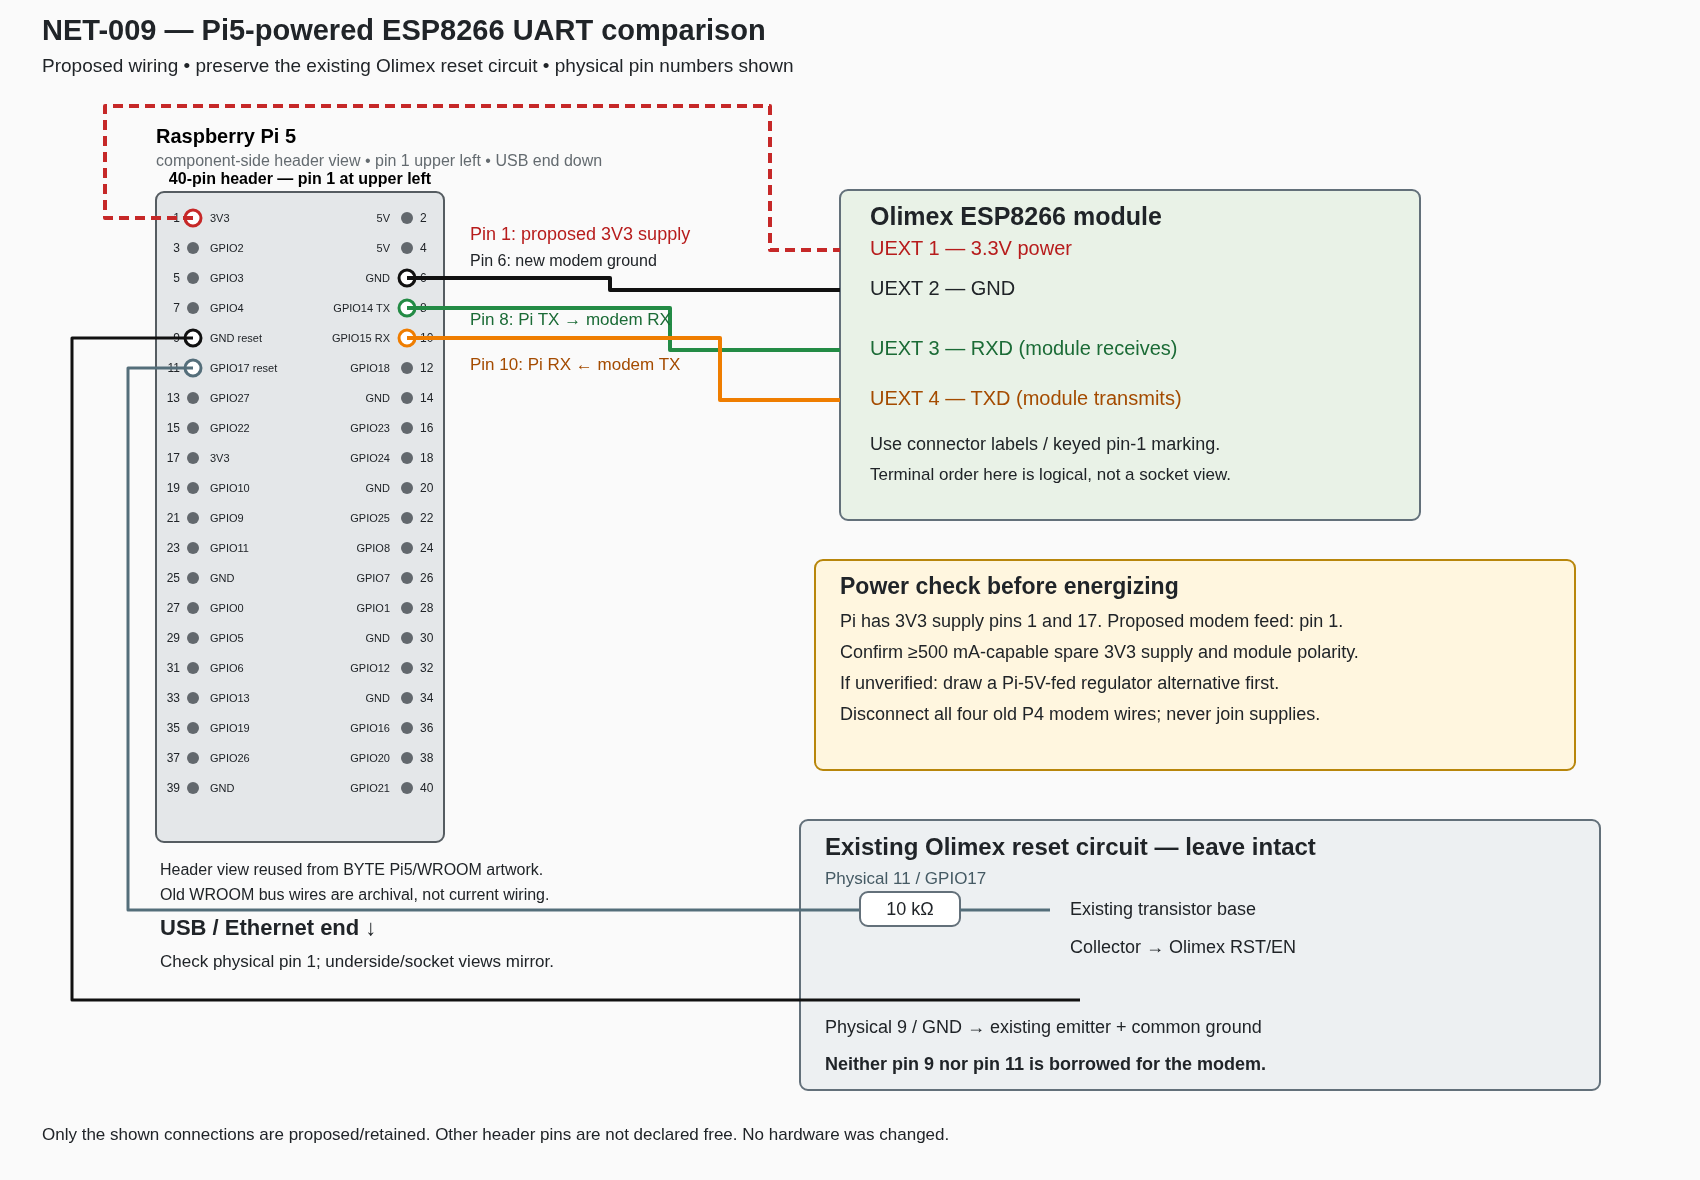
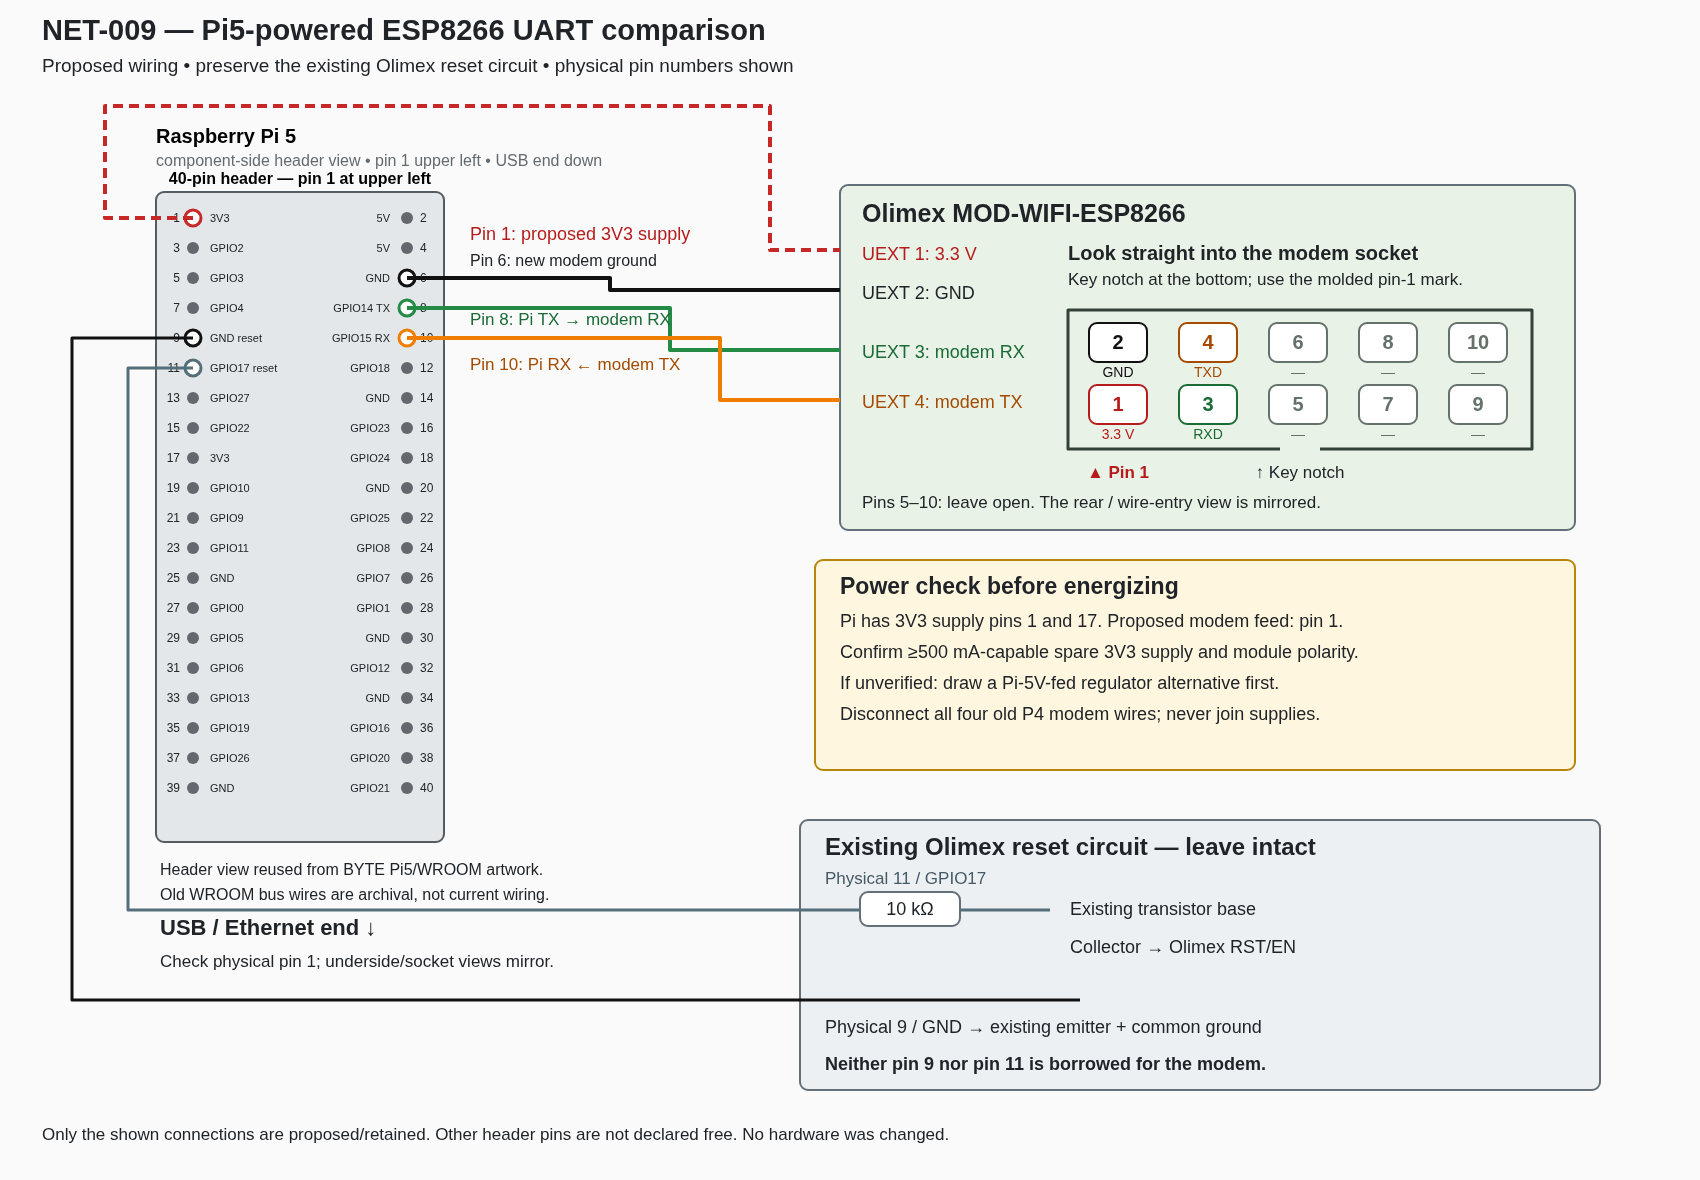
Show modem UEXT socket on Pi5 wiring sheet

Changed region(s): [[0.4988, 0.1525, 0.9041, 0.4576], [0.7482, 0.3051, 0.7794, 0.3661]]

diff --git a/docs/tasks/NET-009/draw_wiring.py b/docs/tasks/NET-009/draw_wiring.py
@@ -36,8 +36,27 @@ for pin,label in enumerate(labels,1):
  text(210 if odd else 390,y+4,label,11,text_anchor='start' if odd else 'end')
  if pin in [1,6,8,10,9,11]:
   colour={1:'#c62828',6:'#111',8:'#238b45',10:'#ef7d00',9:'#111',11:'#546e7a'}[pin];r.append(node('circle',cx=193 if odd else 407,cy=y,r=8,fill='white',stroke=colour,stroke_width=3))
-rect(840,190,580,330,fill='#e9f2e7');text(870,225,'Olimex ESP8266 module',25,font_weight='bold')
-text(870,255,'UEXT 1 — 3.3V power',20,'#b71c1c');text(870,295,'UEXT 2 — GND',20);text(870,355,'UEXT 3 — RXD (module receives)',20,'#1b6b36');text(870,405,'UEXT 4 — TXD (module transmits)',20,'#a44b00');text(870,450,'Use connector labels / keyed pin-1 marking.',18);text(870,480,'Terminal order here is logical, not a socket view.',17)
+rect(840,185,735,345,fill='#e9f2e7')
+text(862,222,'Olimex MOD-WIFI-ESP8266',25,font_weight='bold')
+text(862,260,'UEXT 1: 3.3 V',18,'#b71c1c')
+text(862,299,'UEXT 2: GND',18)
+text(862,358,'UEXT 3: modem RX',18,'#1b6b36')
+text(862,408,'UEXT 4: modem TX',18,'#a44b00')
+text(1068,260,'Look straight into the modem socket',20,font_weight='bold')
+text(1068,285,'Key notch at the bottom; use the molded pin-1 mark.',17)
+# Olimex UEXT face drawing with the notch down: even contacts above odd.
+# The modem is a peripheral: its pins 3/4 are RX/TX, unlike the host legend.
+line([(1280,449),(1068,449),(1068,310),(1532,310),(1532,449),(1320,449)],'#334238',3)
+for row,y in [(2,343),(1,405)]:
+ for col in range(5):
+  pin=row+2*col;x=1118+90*col
+  color={1:'#b71c1c',2:'#111',3:'#1b6b36',4:'#a44b00'}.get(pin,'#64726b')
+  rect(x-29,y-20,58,39,'white',color)
+  text(x,y+6,str(pin),20,color,text_anchor='middle',font_weight='bold')
+  text(x,y+34,{1:'3.3 V',2:'GND',3:'RXD',4:'TXD'}.get(pin,'—'),14,color,text_anchor='middle')
+text(1118,478,'▲ Pin 1',17,'#b71c1c',text_anchor='middle',font_weight='bold')
+text(1300,478,'↑ Key notch',17,text_anchor='middle')
+text(862,508,'Pins 5–10: leave open. The rear / wire-entry view is mirrored.',17)
 line([(193,218),(105,218),(105,106),(770,106),(770,250),(840,250)],'#c62828',dash='10 6')
 line([(407,278),(610,278),(610,290),(840,290)],'#111')
 line([(407,308),(670,308),(670,350),(840,350)],'#238b45')
@@ -54,4 +73,4 @@ text(1070,953,'Collector → Olimex RST/EN',18);text(825,1070,'Neither pin 9 nor
 text(160,875,'Header view reused from BYTE Pi5/WROOM artwork.',16);text(160,900,'Old WROOM bus wires are archival, not current wiring.',16);text(160,935,'USB / Ethernet end ↓',22,font_weight='bold');text(160,967,'Check physical pin 1; underside/socket views mirror.',17)
 text(42,1140,'Only the shown connections are proposed/retained. Other header pins are not declared free. No hardware was changed.',17)
 E.ElementTree(r).write(HERE/'PI5-ESP8266-WIRING.svg',encoding='unicode',xml_declaration=True)
-(HERE/'DIAGRAM-SOURCE.json').write_text(json.dumps({'source':'agon-hardware/first_steps/byte/pi5-wroom-wiring-diagram.svg','sha256':hashlib.sha256(BASE.read_bytes()).hexdigest(),'reused':'Pi5 header geometry, orientation and full row positions; archival WROOM assignments omitted','reset_reference':'docs/bench-reset.md','status':'proposal; power and host pin ownership checks pending'},indent=2)+'\n')
+(HERE/'DIAGRAM-SOURCE.json').write_text(json.dumps({'source':'agon-hardware/first_steps/byte/pi5-wroom-wiring-diagram.svg','sha256':hashlib.sha256(BASE.read_bytes()).hexdigest(),'reused':'Pi5 header geometry, orientation and full row positions; archival WROOM assignments omitted','modem_connector_orientation':'https://www.olimex.com/Products/Modules/UEXT/images/UEXT-PINS.jpg','modem_signal_reference':'https://www.olimex.com/Products/IoT/ESP8266/MOD-WIFI-ESP8266/open-source-hardware','reset_reference':'docs/bench-reset.md','status':'proposal; power and host pin ownership checks pending'},indent=2)+'\n')

diff --git a/docs/tasks/NET-009.md b/docs/tasks/NET-009.md
@@ -25,13 +25,17 @@ host reconfiguration, modem flash or executed test.
 
 ## Wiring proposal
 
-[Task-only drawing](NET-009/PI5-ESP8266-WIRING.svg) reuses the header geometry and
+The [wiring sheet](NET-009/PI5-ESP8266-WIRING.png) ([SVG](NET-009/PI5-ESP8266-WIRING.svg)) reuses the header geometry and
 orientation from the existing BYTE Pi5/WROOM drawing. Its old WROOM data-bus
 assignments are archival and are not copied as current Pi wiring. The existing
 reset circuit is shown separately and unchanged; other pins are not declared free.
 Component-side view, USB/Ethernet end down, physical pin1 at upper left in this
 orientation. Verify the board's pin1 marking; a cable/socket underside is mirrored.
-Use module terminal labels and the keyed UEXT pin1 marker, not assumed left/right.
+The same sheet shows all ten contacts looking directly into the modem’s UEXT
+socket. With the key notch down, pins 2/4/6/8/10 run left to right above
+1/3/5/7/9. Verify the molded pin-1 mark; the wire-entry view is mirrored.
+The connector view follows [Olimex’s UEXT drawing](https://www.olimex.com/Products/Modules/UEXT/images/UEXT-PINS.jpg)
+and uses the modem’s RX/TX labels. Leave pins 5–10 open.
 
 | Pi5 physical pin | Pi function | ESP8266 module connection | Proposed colour |
 |---:|---|---|---|

diff --git a/docs/development/2026-11-16.md b/docs/development/2026-11-16.md
@@ -1,0 +1,8 @@
+# Development log — 2026-11-16
+
+## NET-009 wiring sheet
+
+Added the physical ten-contact MOD-WIFI-ESP8266 UEXT socket face to the existing
+Pi5 wiring sheet. The keyed orientation follows Olimex's connector drawing and
+the RX/TX labels follow its modem-specific pin assignments. The Pi pin
+assignments, power proposal and existing reset wiring are unchanged.
